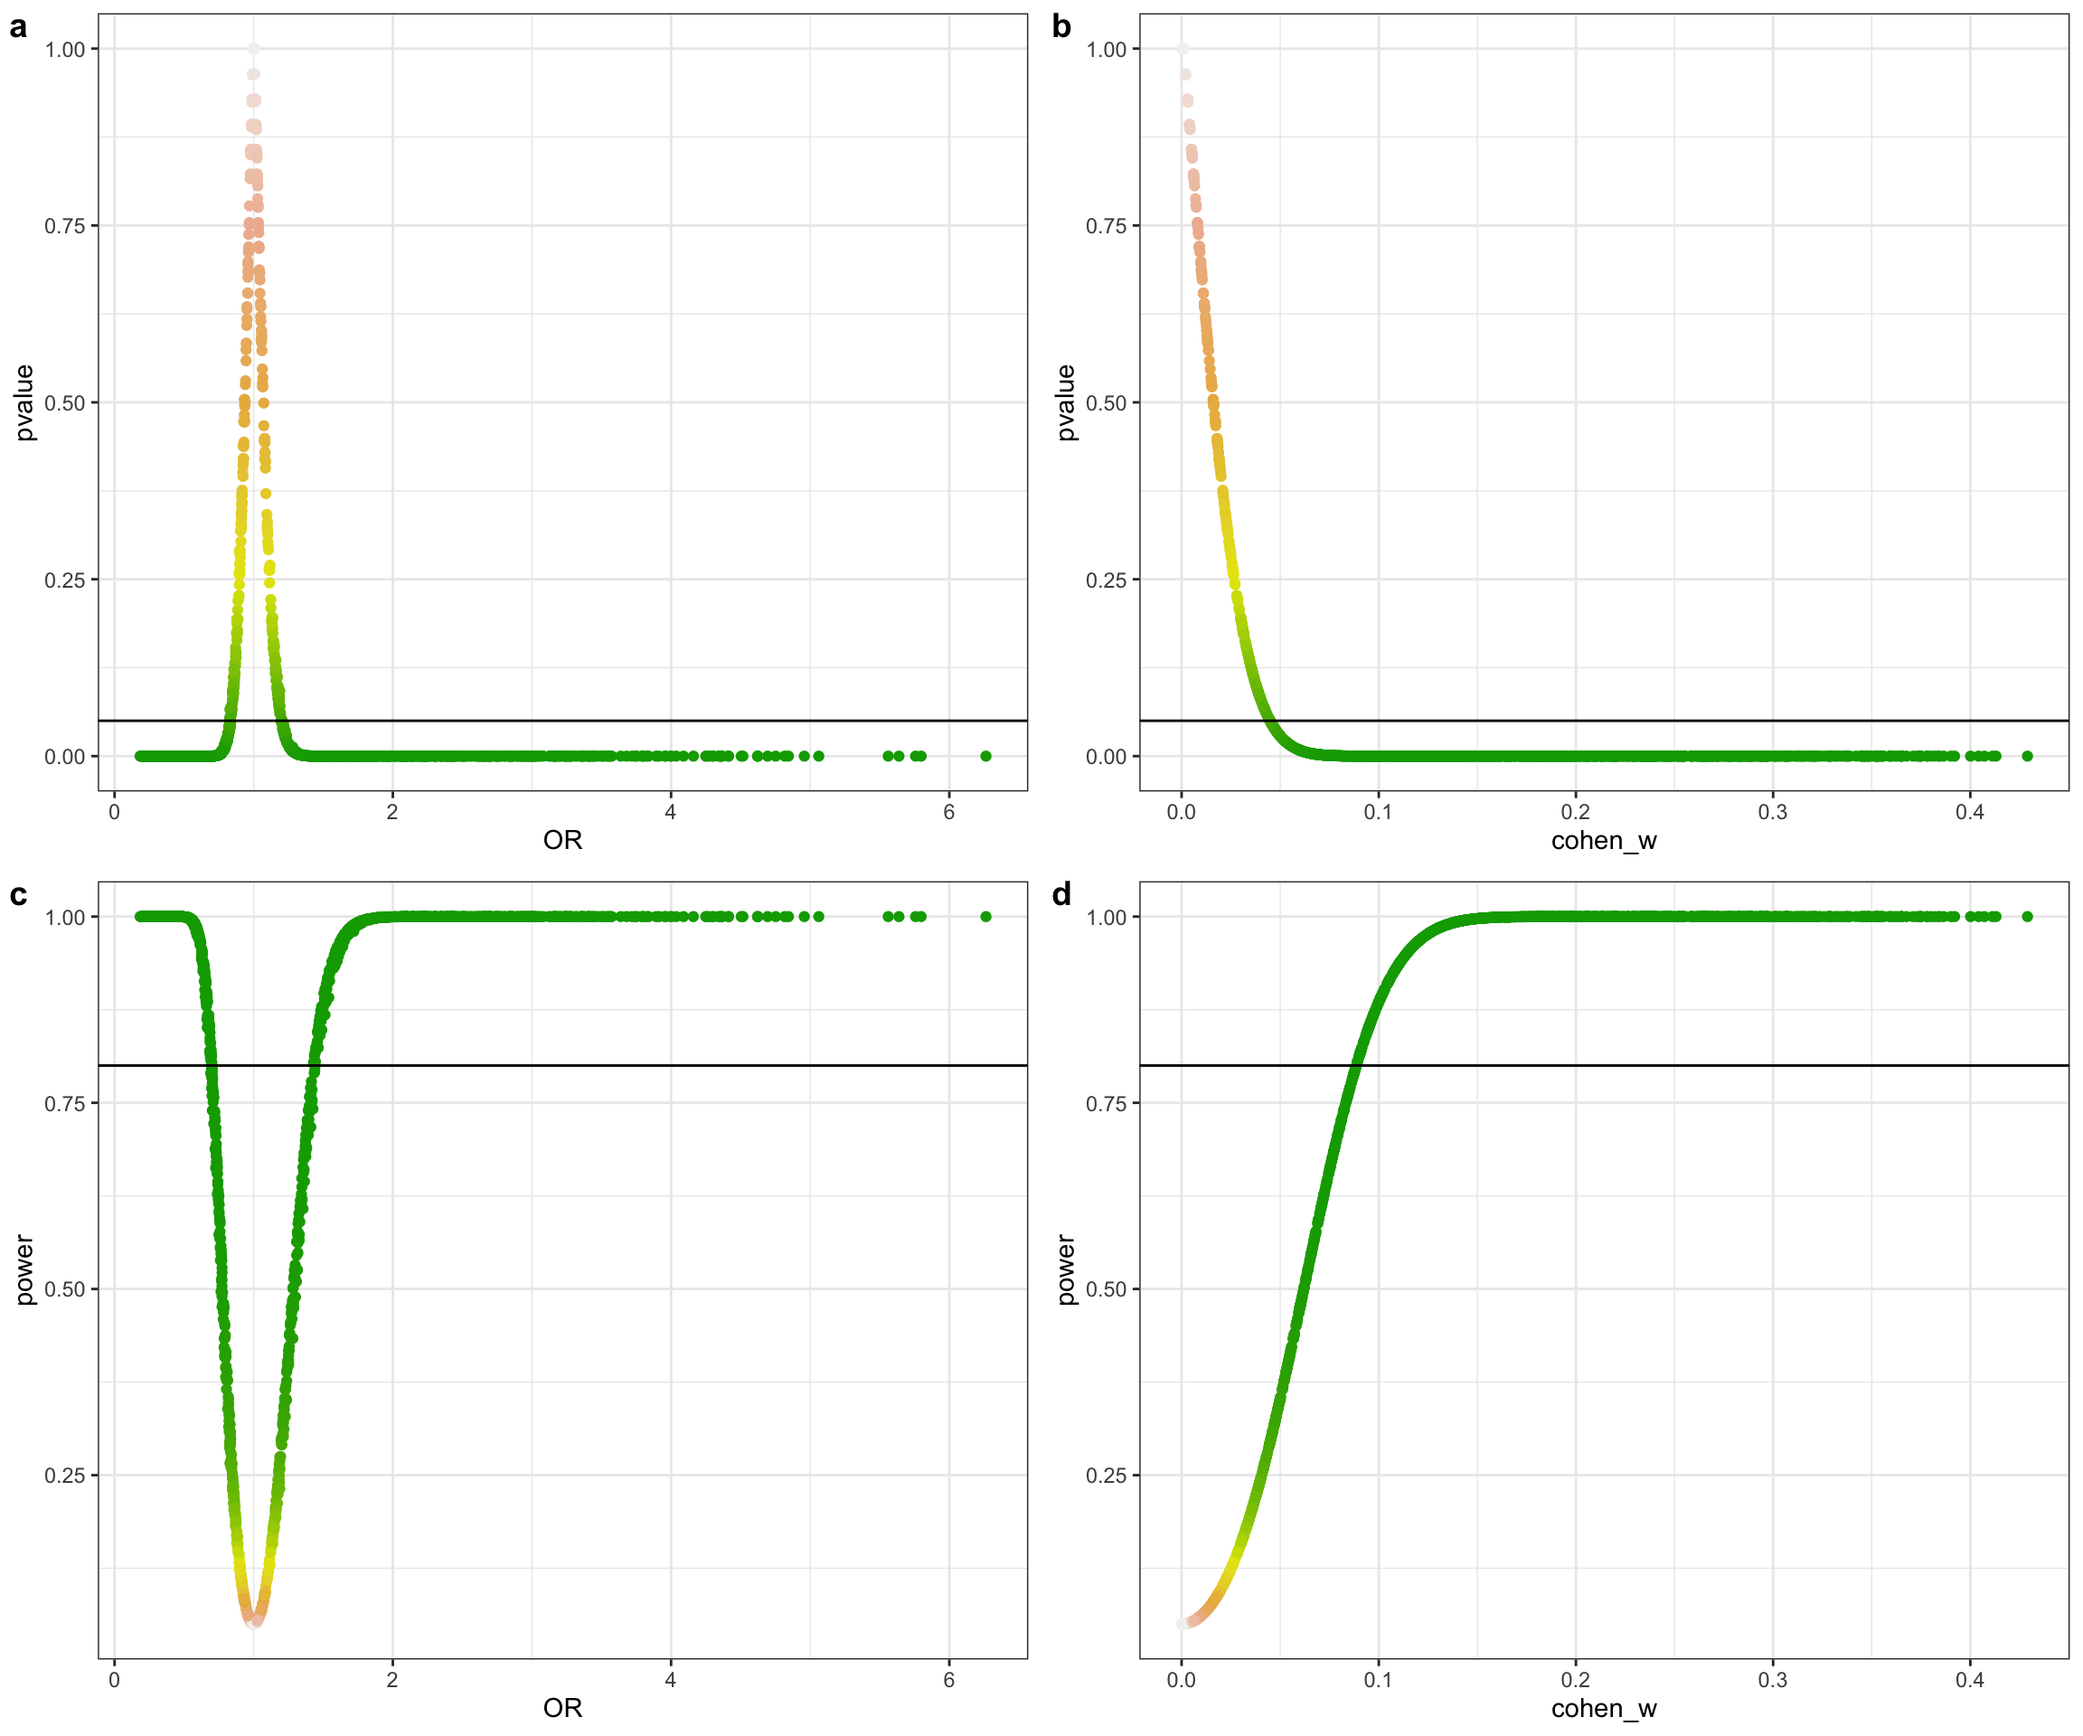
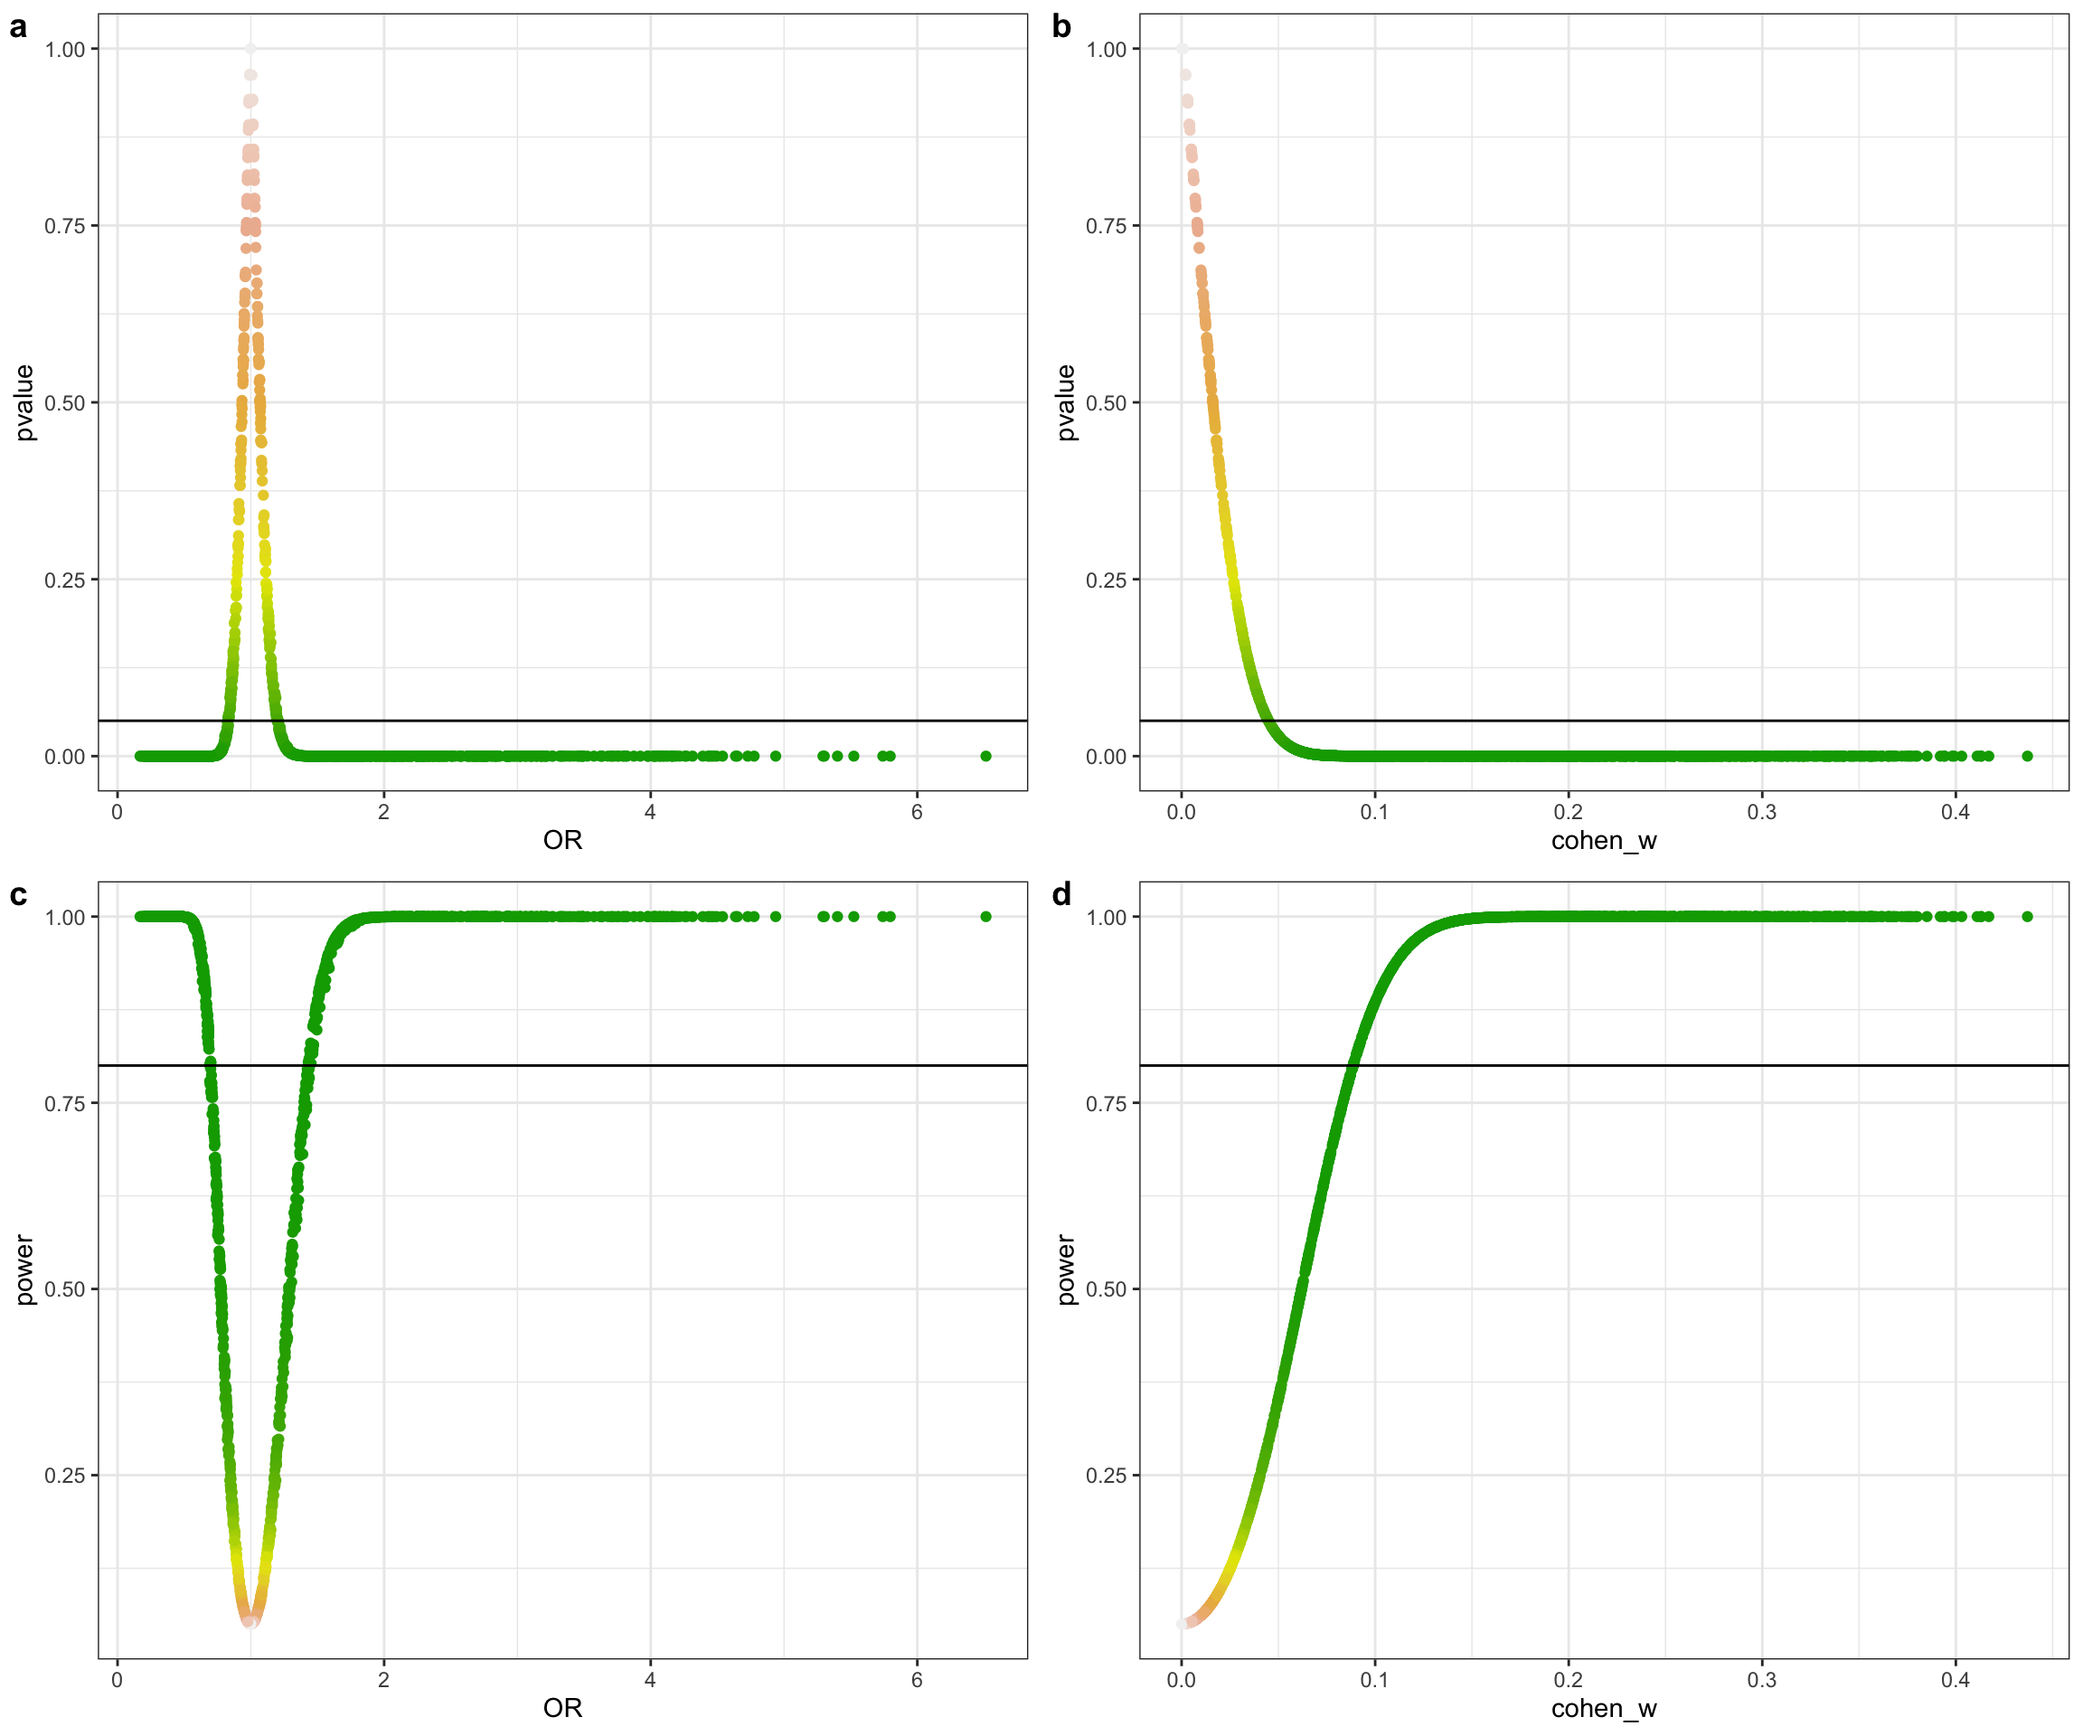
New blog post, post-hoc power

diff --git a/docs/2020/01/playing-with-post-hoc-power/index.html b/docs/2020/01/playing-with-post-hoc-power/index.html
@@ -495,40 +495,40 @@ power_against_pvalue_extractor &lt;- function(power_versus_pvalue, extracted=NUL
    [1] 1000
    
    $w
-   [1] 0.02800006
+   [1] 0.02700228
    
    $power
-   [1] 0.1435116
+   [1] 0.1367942
    
    $p_value
-   [1] 0.2272477
+   [1] 0.2448889
    
    $OR
-   [1] 1.118546
+   [1] 1.114097
    
    $observed_counts
             
              A=exposed G=unexposed
-     case          515         485
-     control       487         513
+     case          507         493
+     control       480         520
    
    $expected_counts
             
              A=exposed G=unexposed
-     case          501         499
-     control       501         499
+     case        493.5       506.5
+     control     493.5       506.5
    
    $observed_proportions
             
              A=exposed G=unexposed
-     case       0.2575      0.2425
-     control    0.2435      0.2565
+     case       0.2535      0.2465
+     control    0.2400      0.2600
    
    $expected_proportions
             
              A=exposed G=unexposed
-     case       0.2505      0.2495
-     control    0.2505      0.2495</code></pre>
+     case      0.24675     0.25325
+     control   0.24675     0.25325</code></pre>
 <p>And now we can map this function to all the combinations of proportions we had stored in our data frame (using the wonderful <code>purrr</code> package):</p>
 <pre class="r"><code>mydata &lt;- mydata0 %&gt;%
    # calculate
@@ -576,13 +576,13 @@ OR
 0.3
 </td>
 <td style="text-align:center;">
-0.0609045
+0.3531753
 </td>
 <td style="text-align:center;">
-0.6990423
+0.0285551
 </td>
 <td style="text-align:center;">
-0.9588308
+0.8040218
 </td>
 </tr>
 <tr>
@@ -593,13 +593,13 @@ OR
 0.3
 </td>
 <td style="text-align:center;">
-0.0534195
+0.0804399
 </td>
 <td style="text-align:center;">
-0.8451791
+0.4998039
 </td>
 <td style="text-align:center;">
-1.0241189
+1.0721938
 </td>
 </tr>
 <tr>
@@ -610,13 +610,13 @@ OR
 0.3
 </td>
 <td style="text-align:center;">
-0.0657312
+0.1767098
 </td>
 <td style="text-align:center;">
-0.6352985
+0.1605137
 </td>
 <td style="text-align:center;">
-0.9517137
+1.1509480
 </td>
 </tr>
 </tbody>
@@ -650,72 +650,6 @@ OR
 </thead>
 <tbody>
 <tr>
-<td style="text-align:center;">
-0.36
-</td>
-<td style="text-align:center;">
-0.43
-</td>
-<td style="text-align:center;">
-0.2934540
-</td>
-<td style="text-align:center;">
-0.0504155
-</td>
-<td style="text-align:center;">
-0.8333460
-</td>
-</tr>
-<tr>
-<td style="text-align:center;">
-0.53
-</td>
-<td style="text-align:center;">
-0.49
-</td>
-<td style="text-align:center;">
-0.2960430
-</td>
-<td style="text-align:center;">
-0.0490843
-</td>
-<td style="text-align:center;">
-1.1973892
-</td>
-</tr>
-<tr>
-<td style="text-align:center;">
-0.60
-</td>
-<td style="text-align:center;">
-0.68
-</td>
-<td style="text-align:center;">
-0.2957282
-</td>
-<td style="text-align:center;">
-0.0494704
-</td>
-<td style="text-align:center;">
-0.8283433
-</td>
-</tr>
-<tr>
-<td style="text-align:center;">
-0.63
-</td>
-<td style="text-align:center;">
-0.68
-</td>
-<td style="text-align:center;">
-0.2930812
-</td>
-<td style="text-align:center;">
-0.0508489
-</td>
-<td style="text-align:center;">
-0.8263437
-</td>
 </tr>
 </tbody>
 </table>
@@ -797,6 +731,10 @@ composed_figure &lt;- cowplot::plot_grid(plotlist = cowplots,
 
 composed_figure</code></pre>
 <p><img src="../../../post/2020-01-04-playing-with-post-hoc-power-with-r-why-you-shouldn-t-do-it_files/figure-html/plot_output2-1.png" width="1152" />  </p>
+<div id="different-sample-sizes" class="section level5">
+<h5>Different sample sizes</h5>
+<p><img src="../../../post/2020-01-04-playing-with-post-hoc-power-with-r-why-you-shouldn-t-do-it_files/figure-html/plot_output3-1.png" width="1152" /></p>
+</div>
 </div>
 <div id="this-.rmd-source-code" class="section level4">
 <h4>This .Rmd source code</h4>

diff --git a/content/post/2020-01-04-playing-with-post-hoc-power-with-r-why-you-shouldn-t-do-it.html b/content/post/2020-01-04-playing-with-post-hoc-power-with-r-why-you-shouldn-t-do-it.html
@@ -209,40 +209,40 @@ power_against_pvalue_extractor &lt;- function(power_versus_pvalue, extracted=NUL
    [1] 1000
    
    $w
-   [1] 0.02800006
+   [1] 0.02700228
    
    $power
-   [1] 0.1435116
+   [1] 0.1367942
    
    $p_value
-   [1] 0.2272477
+   [1] 0.2448889
    
    $OR
-   [1] 1.118546
+   [1] 1.114097
    
    $observed_counts
             
              A=exposed G=unexposed
-     case          515         485
-     control       487         513
+     case          507         493
+     control       480         520
    
    $expected_counts
             
              A=exposed G=unexposed
-     case          501         499
-     control       501         499
+     case        493.5       506.5
+     control     493.5       506.5
    
    $observed_proportions
             
              A=exposed G=unexposed
-     case       0.2575      0.2425
-     control    0.2435      0.2565
+     case       0.2535      0.2465
+     control    0.2400      0.2600
    
    $expected_proportions
             
              A=exposed G=unexposed
-     case       0.2505      0.2495
-     control    0.2505      0.2495</code></pre>
+     case      0.24675     0.25325
+     control   0.24675     0.25325</code></pre>
 <p>And now we can map this function to all the combinations of proportions we had stored in our data frame (using the wonderful <code>purrr</code> package):</p>
 <pre class="r"><code>mydata &lt;- mydata0 %&gt;%
    # calculate
@@ -290,13 +290,13 @@ OR
 0.3
 </td>
 <td style="text-align:center;">
-0.0609045
+0.3531753
 </td>
 <td style="text-align:center;">
-0.6990423
+0.0285551
 </td>
 <td style="text-align:center;">
-0.9588308
+0.8040218
 </td>
 </tr>
 <tr>
@@ -307,13 +307,13 @@ OR
 0.3
 </td>
 <td style="text-align:center;">
-0.0534195
+0.0804399
 </td>
 <td style="text-align:center;">
-0.8451791
+0.4998039
 </td>
 <td style="text-align:center;">
-1.0241189
+1.0721938
 </td>
 </tr>
 <tr>
@@ -324,13 +324,13 @@ OR
 0.3
 </td>
 <td style="text-align:center;">
-0.0657312
+0.1767098
 </td>
 <td style="text-align:center;">
-0.6352985
+0.1605137
 </td>
 <td style="text-align:center;">
-0.9517137
+1.1509480
 </td>
 </tr>
 </tbody>
@@ -364,72 +364,6 @@ OR
 </thead>
 <tbody>
 <tr>
-<td style="text-align:center;">
-0.36
-</td>
-<td style="text-align:center;">
-0.43
-</td>
-<td style="text-align:center;">
-0.2934540
-</td>
-<td style="text-align:center;">
-0.0504155
-</td>
-<td style="text-align:center;">
-0.8333460
-</td>
-</tr>
-<tr>
-<td style="text-align:center;">
-0.53
-</td>
-<td style="text-align:center;">
-0.49
-</td>
-<td style="text-align:center;">
-0.2960430
-</td>
-<td style="text-align:center;">
-0.0490843
-</td>
-<td style="text-align:center;">
-1.1973892
-</td>
-</tr>
-<tr>
-<td style="text-align:center;">
-0.60
-</td>
-<td style="text-align:center;">
-0.68
-</td>
-<td style="text-align:center;">
-0.2957282
-</td>
-<td style="text-align:center;">
-0.0494704
-</td>
-<td style="text-align:center;">
-0.8283433
-</td>
-</tr>
-<tr>
-<td style="text-align:center;">
-0.63
-</td>
-<td style="text-align:center;">
-0.68
-</td>
-<td style="text-align:center;">
-0.2930812
-</td>
-<td style="text-align:center;">
-0.0508489
-</td>
-<td style="text-align:center;">
-0.8263437
-</td>
 </tr>
 </tbody>
 </table>
@@ -511,6 +445,10 @@ composed_figure &lt;- cowplot::plot_grid(plotlist = cowplots,
 
 composed_figure</code></pre>
 <p><img src="/post/2020-01-04-playing-with-post-hoc-power-with-r-why-you-shouldn-t-do-it_files/figure-html/plot_output2-1.png" width="1152" />  </p>
+<div id="different-sample-sizes" class="section level5">
+<h5>Different sample sizes</h5>
+<p><img src="/post/2020-01-04-playing-with-post-hoc-power-with-r-why-you-shouldn-t-do-it_files/figure-html/plot_output3-1.png" width="1152" /></p>
+</div>
 </div>
 <div id="this-.rmd-source-code" class="section level4">
 <h4>This .Rmd source code</h4>
